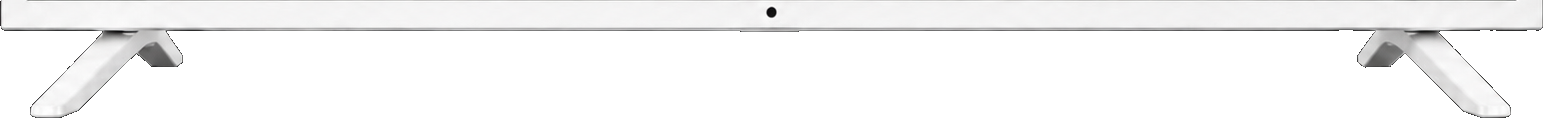
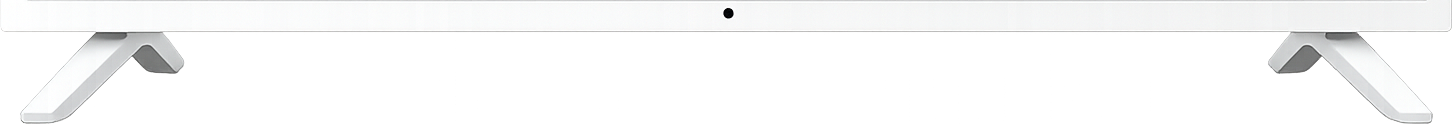
Cart, Wishlist and Order on the television, on the Normal home
The TV came off the Cart, Orders and Wishlist pages. It was in the wrong
place — those pages open behind an intro screen, so the frame was never
where anyone would find it.

It is on the Normal home now, around the quick-access row: the three
buttons that were Store / Health / Community are Cart, Wishlist and Order,
and they sit on the television's screen.

THE RENDER ARRIVED ALREADY CUT — transparent outside the TV and clear
through the screen — so it is used exactly as supplied, only trimmed to
its own silhouette (x 40-1491, y 138-968 of 1536x1024), because outside
that it is all transparent margin and margin inside the box is dead space
the row pays for on every side.

THREE SLICES, NOT ONE IMAGE. Every other frame here is one render
stretched to its box with background-size: 100% 100%, which works when the
box is roughly the render's shape. This one is cut on its own seams — top
bezel with the wordmark, one slice of the band that repeats, bottom bezel
with the feet — and the middle is tiled rather than stretched, which it
can be because that band has no vertical detail down its whole length.
Every slice scales by the same factor, so the bezel keeps its thickness
and the feet their shape at any size.

THE SCREEN IS BLACK, and it is painted in CSS rather than baked into the
file, because the render's screen is transparent and its bezel layer sits
ABOVE the content — black in the file would have covered the buttons. It
[…]

diff --git a/nowssb-nm.css b/nowssb-nm.css
@@ -11170,50 +11170,51 @@ body.fpoff-routines #home .rt-vid-banner { display: none !important; }
 }
 .nwsb-inframe.dev-tv-p::after { background-image: url('./assets/frames/tv-portrait.webp'); }
 
-/* ── The landscape TV — Cart, Orders and Wishlist ──
+/* ── The landscape TV — the Cart / Wishlist / Order row on the Normal home ──
    Three slices, not one image, and that is the whole trick.
 
    Every other frame in this file is one render stretched to its box with
    background-size: 100% 100%. That works when the box is roughly the
-   render's shape. These are not: a cart page is 412 wide and as tall as
-   its list, and a TV is 1.78:1 — so the single stretched render squashed
-   to a 1.10 aspect, the bezel went thin and wide and the feet were
-   crushed flat. It was also only over .cwp-body, so the header and the
-   checkout bar sat outside the TV entirely.
+   render's shape. A television is 1.75:1 and the row it holds is not, so
+   stretched it went thin and wide and the feet were crushed flat.
 
-   The render is now cut into three along its own natural seams:
+   The render arrived already cut — transparent outside the TV and clear
+   through the screen — so it is used as supplied, only trimmed to its own
+   silhouette (x 40-1491, y 138-968 of 1536x1024) because outside that it
+   is all transparent margin, and margin inside the box is dead space the
+   row pays for on every side. Trimmed it is 1452x831, cut on its own
+   natural seams:
 
-   The cut render is first trimmed to the TV's own silhouette — x 65-1607,
-   y 128-894 of the 1672x941 original — because outside that it is all
-   transparent margin, and margin inside the box is dead space the page
-   pays for in every direction. Trimmed it is 1543x767, and the seams are:
-
-     tv-l-top     rows 0-30     the top bezel, with the wordmark on it
-     tv-l-mid     rows 172-179  one slice of the band that is identical
+     tv-l-top     rows 0-34     the top bezel, with the wordmark on it
+     tv-l-mid     rows 262-269  one slice of the band that is identical
                                 all the way down — white rail, screen,
                                 white rail — repeated the height of the box
-     tv-l-bottom  rows 649-766  the bottom bezel and the feet
+     tv-l-bottom  rows 707-830  the bottom bezel and the feet
 
-   Caps at top and bottom, rail tiled between. Every slice is scaled by
-   the same factor (100% of the width), so the bezel keeps its true
-   thickness and the feet their true shape no matter how tall the page
-   gets. The rails repeat rather than stretch, which they can because that
-   band has no vertical detail — checked down its whole length.
-
-   The black is gone from the render: transparent outside the TV so the
-   page shows around it, and transparent across the screen so the content
-   shows through. Cut by flooding in from the border rather than by
-   threshold alone, so the black wordmark ON the white bezel survives —
-   a plain threshold would have punched it out.
+   Caps top and bottom, rail tiled between. Every slice scales by the same
+   factor (100% of the width), so the bezel keeps its true thickness and
+   the feet their true shape whatever height the row ends up. The rails
+   repeat rather than stretch, which they can because that band has no
+   vertical detail anywhere down its length.
 
    The padding is the bezel, and every side is a fraction of the WIDTH —
    which is what CSS percentage padding already means on all four sides,
-   so for once that quirk is exactly right. Off the trimmed render: the
-   screen sits at x 27-1516 and y 31-648 of 1543x767, so 31/1543,
-   26/1543, 118/1543, 27/1543. */
+   so for once that quirk is exactly right. Off the trimmed render, the
+   screen sits at x 28-1425 and y 35-706 of 1452x831. */
 .nwsb-inframe.dev-tv-l {
-  padding: 2.009% 1.685% 7.647% 1.750%;
+  padding: 2.410% 1.791% 8.540% 1.928%;
   background-color: transparent;
+}
+/* The screen is black — and it is painted here rather than baked into the
+   render, because the render's screen is transparent and its ::after sits
+   ABOVE the content. Black in the file would have covered the buttons.
+   Inset to exactly the aperture so it never spills past the bezel, and
+   z-index 0 to sit under the row (.nwsb-inframe > * is z-index 1) and
+   under the bezel (z-index 20). */
+.nwsb-inframe.dev-tv-l::before {
+  content: ''; position: absolute; z-index: 0; pointer-events: none;
+  top: 2.410%; right: 1.791%; bottom: 8.540%; left: 1.928%;
+  background: #000;
 }
 .nwsb-inframe.dev-tv-l::after {
   background-image: url('./assets/frames/tv-l-top.webp'),
@@ -11224,12 +11225,36 @@ body.fpoff-routines #home .rt-vid-banner { display: none !important; }
   background-repeat: no-repeat, no-repeat, repeat-y;
 }
 
-/* ── The tablet — the Player ── */
-.nwsb-inframe.dev-tab {
-  padding: 8% 4.2% 7.2%;
-  background-color: #05070d;
+/* The row itself. It was three pills on the page; it is three pills on a
+   screen now, so the neumorphic shells come off — they were shaped for the
+   light surface behind them and read as lumps on black. */
+/* The frame carries the render's own shape. Left to the row's natural
+   height the box came out 372x107 — an aspect of 3.5 against the
+   television's 1.75 — and three buttons in a letterbox do not read as a
+   television at all. With the file's aspect on the frame the screen lands
+   at the render's own proportions and the row fills it. */
+.nmh-quick-tv {
+  width: 100%; position: relative;
+  aspect-ratio: 1452 / 831;      /* the trimmed render's own */
 }
-.nwsb-inframe.dev-tab::after { background-image: url('./assets/frames/tablet.webp'); }
+#home-nm .nmh-quick-tv .nmh-quick-row { gap: 0; height: 100%; }
+#home-nm .nmh-quick-tv .nmh-quick-btn {
+  background: transparent !important;
+  box-shadow: none !important;
+  border-radius: 0 !important;
+  padding: 6px;
+  justify-content: center;       /* centred on the screen, not the top of it */
+}
+#home-nm .nmh-quick-tv .nmh-quick-btn:active {
+  background: rgba(255,255,255,0.06) !important;
+  box-shadow: none !important; transform: none;
+}
+#home-nm .nmh-quick-tv .nmh-quick-btn span { color: rgba(255,255,255,0.72); }
+/* Hairlines between them, so three buttons on one black screen still read
+   as three buttons. */
+#home-nm .nmh-quick-tv .nmh-quick-btn + .nmh-quick-btn {
+  box-shadow: inset 1px 0 0 rgba(255,255,255,0.10) !important;
+}
 
 /* ── The tall tablet — the footer ──
    Kept as a variant of the component, but nothing wears it now: the

diff --git a/index.html b/index.html
@@ -109,7 +109,7 @@ window.addEventListener('appinstalled', function () { window._bipEvent = null; }
 <script type="module" src="app/js/firebase.module.js?v=263"></script>
 <link rel="stylesheet" href="app/app.css?v=313">
 <link rel="stylesheet" href="nowssb-social.css?v=210">
-<link rel="stylesheet" href="nowssb-nm.css?v=660">
+<link rel="stylesheet" href="nowssb-nm.css?v=662">
 <link rel="stylesheet" href="nowssb-player.css?v=201">
 </head>
 <body>
@@ -1204,32 +1204,34 @@ window.addEventListener('appinstalled', function () { window._bipEvent = null; }
     <div class="ncb-carousel" id="ncbCarouselNm"><div class="ncb-track"></div><div class="ncb-dots"></div></div>
 
 
-    <!-- Quick access row -->
+    <!-- Quick access row — Cart, Wishlist and Order, on the television.
+         .nmh-quick-tv is the frame; the row inside it is the screen. -->
+    <div class="nmh-quick-tv nwsb-inframe dev-tv-l">
     <div class="nmh-quick-row">
-      <div class="nmh-quick-btn" onclick="openSub('nowssb-store')">
+      <div class="nmh-quick-btn" onclick="openSub('cart')">
         <svg width="22" height="22" viewBox="0 0 22 22" fill="none">
           <path d="M3 3h1.5l2.5 7h9l2-5H7" stroke="#c8a96e" stroke-width="1.6" stroke-linecap="round" stroke-linejoin="round"/>
           <circle cx="9" cy="18.5" r="1.5" fill="#c8a96e"/>
           <circle cx="16" cy="18.5" r="1.5" fill="#c8a96e"/>
         </svg>
-        <span>Store</span>
+        <span>Cart</span>
       </div>
-      <div class="nmh-quick-btn" onclick="openSub('health-journey')">
+      <div class="nmh-quick-btn" onclick="openSub('wishlist')">
         <svg width="22" height="22" viewBox="0 0 22 22" fill="none">
           <path d="M11 18S4 13 4 8.5A4.5 4.5 0 0111 5a4.5 4.5 0 017 3.5C18 13 11 18 11 18z" stroke="#c8a96e" stroke-width="1.6" fill="rgba(200,169,110,0.1)"/>
         </svg>
-        <span>Health</span>
+        <span>Wishlist</span>
       </div>
-      <div class="nmh-quick-btn" onclick="openSub('people')">
+      <div class="nmh-quick-btn" onclick="openSub('orders')">
         <svg width="22" height="22" viewBox="0 0 22 22" fill="none">
-          <circle cx="8" cy="7.5" r="3" stroke="#c8a96e" stroke-width="1.6"/>
-          <path d="M2 19c0-3.3 2.7-6 6-6s6 2.7 6 6" stroke="#c8a96e" stroke-width="1.6" stroke-linecap="round"/>
-          <circle cx="16" cy="7.5" r="2.5" stroke="#c8a96e" stroke-width="1.4" opacity="0.55"/>
-          <path d="M19 19c0-2.8-1.3-4.5-3-5.5" stroke="#c8a96e" stroke-width="1.4" stroke-linecap="round" opacity="0.55"/>
+          <path d="M4 6.5h14v11a1.5 1.5 0 0 1-1.5 1.5h-11A1.5 1.5 0 0 1 4 17.5z" stroke="#c8a96e" stroke-width="1.6" stroke-linejoin="round"/>
+          <path d="M7.5 6.5V5a3.5 3.5 0 0 1 7 0v1.5" stroke="#c8a96e" stroke-width="1.6" stroke-linecap="round"/>
+          <path d="M8 11.5h6" stroke="#c8a96e" stroke-width="1.5" stroke-linecap="round"/>
         </svg>
-        <span>Community</span>
+        <span>Order</span>
       </div>
     </div>
+    </div><!-- /nmh-quick-tv -->
 
     <!-- Section label — black banner -->
     <!-- Today's Trending: its black banner, its clip and the Shop Now
@@ -5930,7 +5932,7 @@ window.addEventListener('appinstalled', function () { window._bipEvent = null; }
   </div>
 
   <!-- ══ CART MAIN CONTENT ══ -->
-  <div id="cartMainContent" class="nwsb-inframe dev-tv-l" style="display:none; flex-direction:column; height:100%; overflow-y:auto; overflow-x:hidden; -webkit-overflow-scrolling:touch; position:relative;">
+  <div id="cartMainContent" style="display:none; flex-direction:column; height:100%; overflow-y:auto; overflow-x:hidden; -webkit-overflow-scrolling:touch; position:relative;">
 
   <!-- Top bar -->
   <div class="cwp-topbar">
@@ -6116,7 +6118,7 @@ window.addEventListener('appinstalled', function () { window._bipEvent = null; }
   </div>
 
   <!-- ══ WISHLIST FILTER VIEW (slides in from right) ══ -->
-  <div class="wish-filter-view nwsb-inframe dev-tv-l" id="wishFilterView">
+  <div class="wish-filter-view" id="wishFilterView">
     <!-- Top bar -->
     <div class="cwp-topbar">
       <div class="cwp-back" onclick="wishCloseFilter();closeSub('wishlist')">
@@ -6186,7 +6188,7 @@ window.addEventListener('appinstalled', function () { window._bipEvent = null; }
   </div>
 
   <!-- ══ ORDERS MAIN CONTENT ══ -->
-  <div id="ordersMainContent" class="nwsb-inframe dev-tv-l" style="display:none; flex-direction:column; height:100%; overflow-y:auto; overflow-x:hidden; -webkit-overflow-scrolling:touch; position:relative;">
+  <div id="ordersMainContent" style="display:none; flex-direction:column; height:100%; overflow-y:auto; overflow-x:hidden; -webkit-overflow-scrolling:touch; position:relative;">
   <!-- Top bar -->
   <div class="cwp-topbar">
     <div class="cwp-back" onclick="closeSub('orders')">

diff --git a/sw.js b/sw.js
@@ -1,4 +1,4 @@
-const CACHE = 'nowsbansiu-v826';
+const CACHE = 'nowsbansiu-v827';
 // Separate, stable-named bucket for background-prefetched videos (see
 // app/js/part051.js). Kept OUT of the version-bumped CACHE above so a
 // routine JS/CSS deploy never wipes out videos the user already has warmed —
